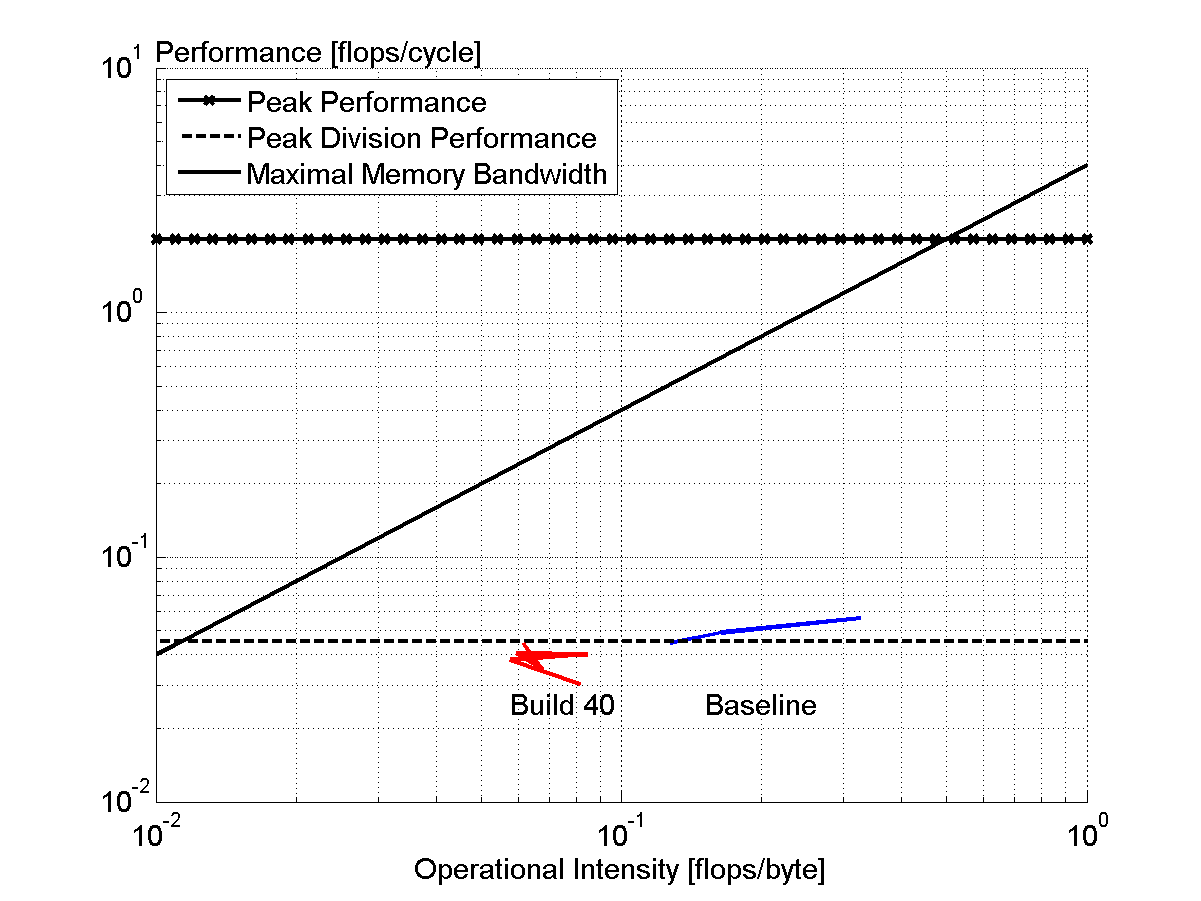
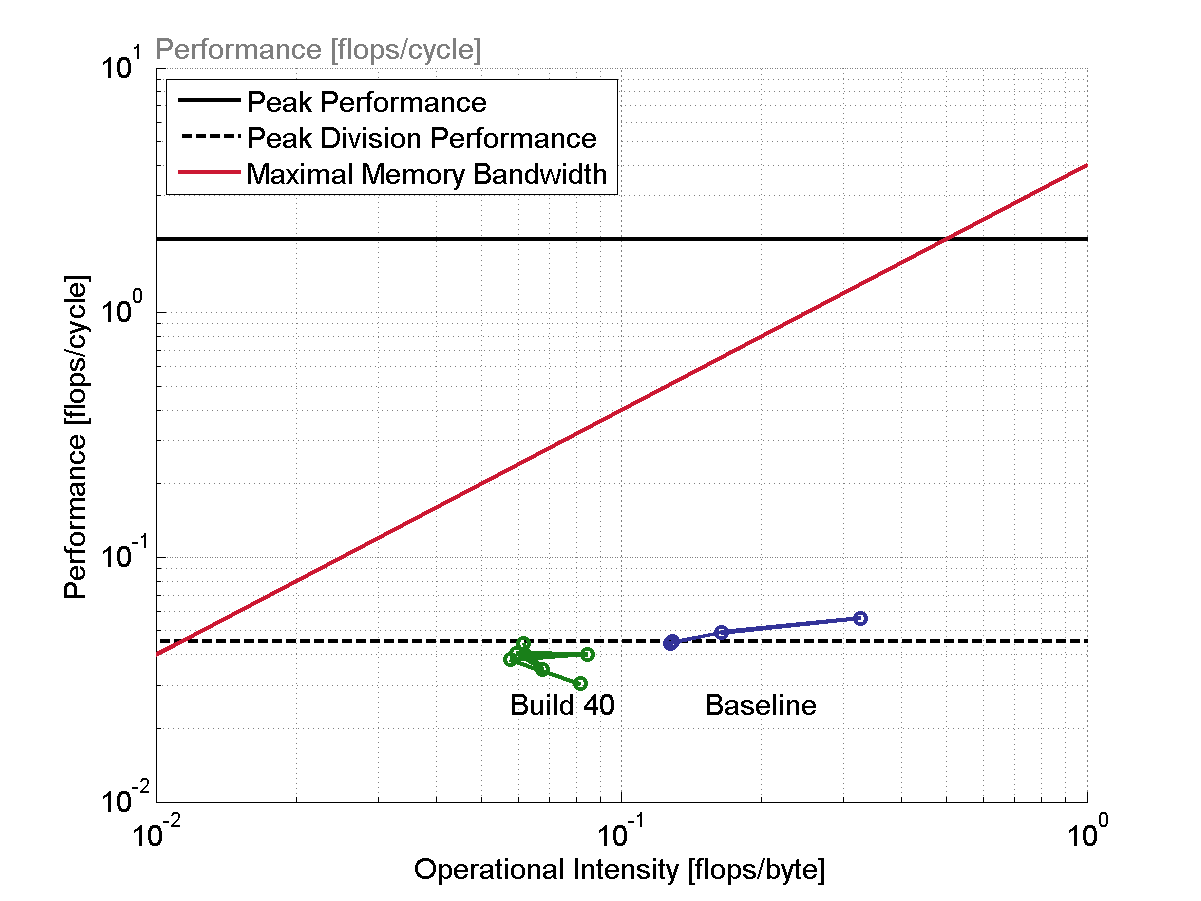
nicify plots.

diff --git a/analysis/roofline_mixed_baseline_b40.m b/analysis/roofline_mixed_baseline_b40.m
@@ -74,21 +74,21 @@ oneOpCycle = 1;
 
 % Scalar peak performance
 ys = ones(length(x),1).*peakPerf;
-perfBound = loglog(x,ys,'-xk','LineWidth',2);
+perfBound = loglog(x,ys,'-k','LineWidth',2);
 
 % memory bandwidth
 yb = x.*maxBytesCycle;
 memBound = loglog(x,yb,'-k','LineWidth',2);
-
+set(memBound(1),'color',[0.8 0.1 0.2]);
 % measurements
-loglog(roofline_points(:,1), roofline_points(:,2), '-b', 'LineWidth',2);
-
+p=loglog(roofline_points(:,1), roofline_points(:,2), '-o', 'LineWidth',2);
+set(p(1),'color',[0.2 0.2 0.6])
 
 
 legend('Peak Performance','Maximal Memory Bandwidth','Location','northwest');
 xlabel('Operational Intensity [flops/byte]', 'fontsize', fontsize)
 y=ylabel({'Performance [flops/cycle]'}, 'fontsize', fontsize,'rot', 0);
-set(y, 'position', [0.0225,10,0]);
+set(y, 'position', [0.0225,10.2,0]);
 set(gca,'XScale','log')
 set(gca,'YScale','log')
 % t=title('Roofline Plot Baseline','fontsize', fontsize+1);
@@ -191,7 +191,8 @@ divBound = loglog(x,ys,'--k','LineWidth',2);
 % title('Roofline Plot Build 40','fontsize', fontsize);
 legend([perfBound, divBound, memBound],{'Peak Performance', 'Peak Division Performance', 'Maximal Memory Bandwidth'},'Location','northwest');
 % measurements
-loglog(roofline_points(:,1), roofline_points(:,2), '-r', 'LineWidth',2);
+p=loglog(roofline_points(:,1), roofline_points(:,2), '-o', 'LineWidth',2);
+set(p(1),'color',[0.1 0.5 0.1]);
 text(0.2, 0.025,{'Baseline'},'VerticalAlignment','middle','HorizontalAlignment','center', 'fontsize', fontsize);
 text(0.075, 0.025,{'Build 40'},'VerticalAlignment','middle','HorizontalAlignment','center', 'fontsize', fontsize);
 print(gcf, '-r150', 'roofline_mixed.png', '-dpng');

diff --git a/analysis/runtime.m b/analysis/runtime.m
@@ -33,4 +33,5 @@ y = ylabel('Runtime [seconds]', 'fontsize', fontsize, 'rot', 0);
 set(y, 'position', [4.6,108,0]);
 set(gca, 'YTickLabel', [0.01;0.1;1;10;100]);
 daspect([1 6 1])
+set(gca,'GridLineStyle','-')
 saveas(gcf,'runtime_plot', 'pdf');
